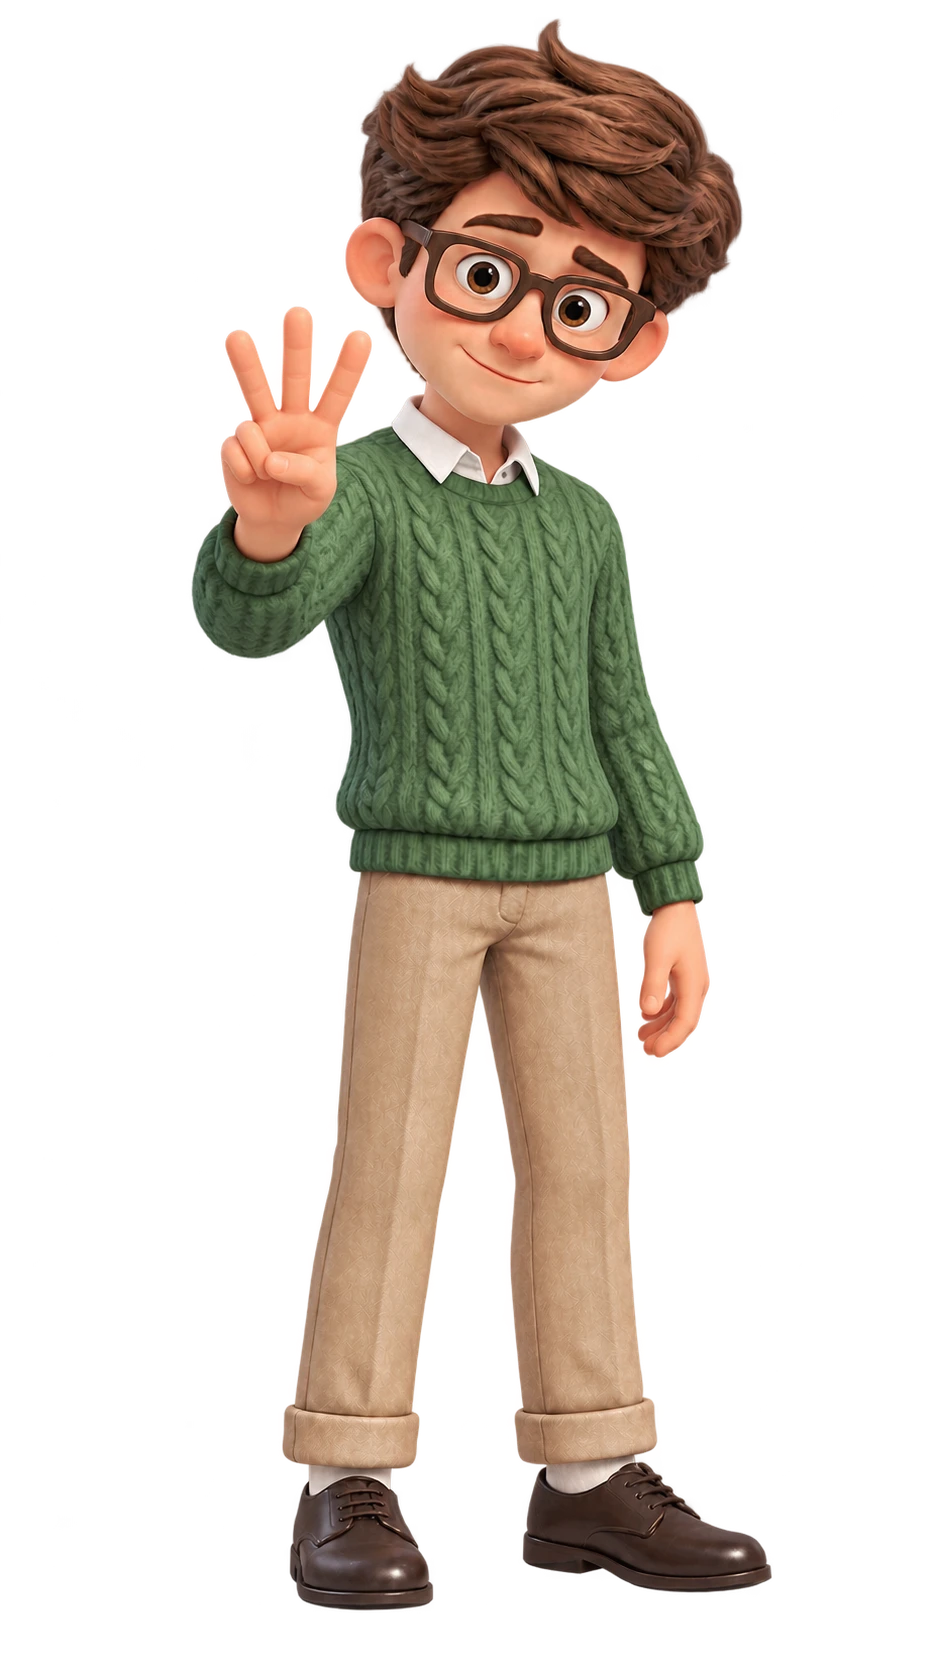
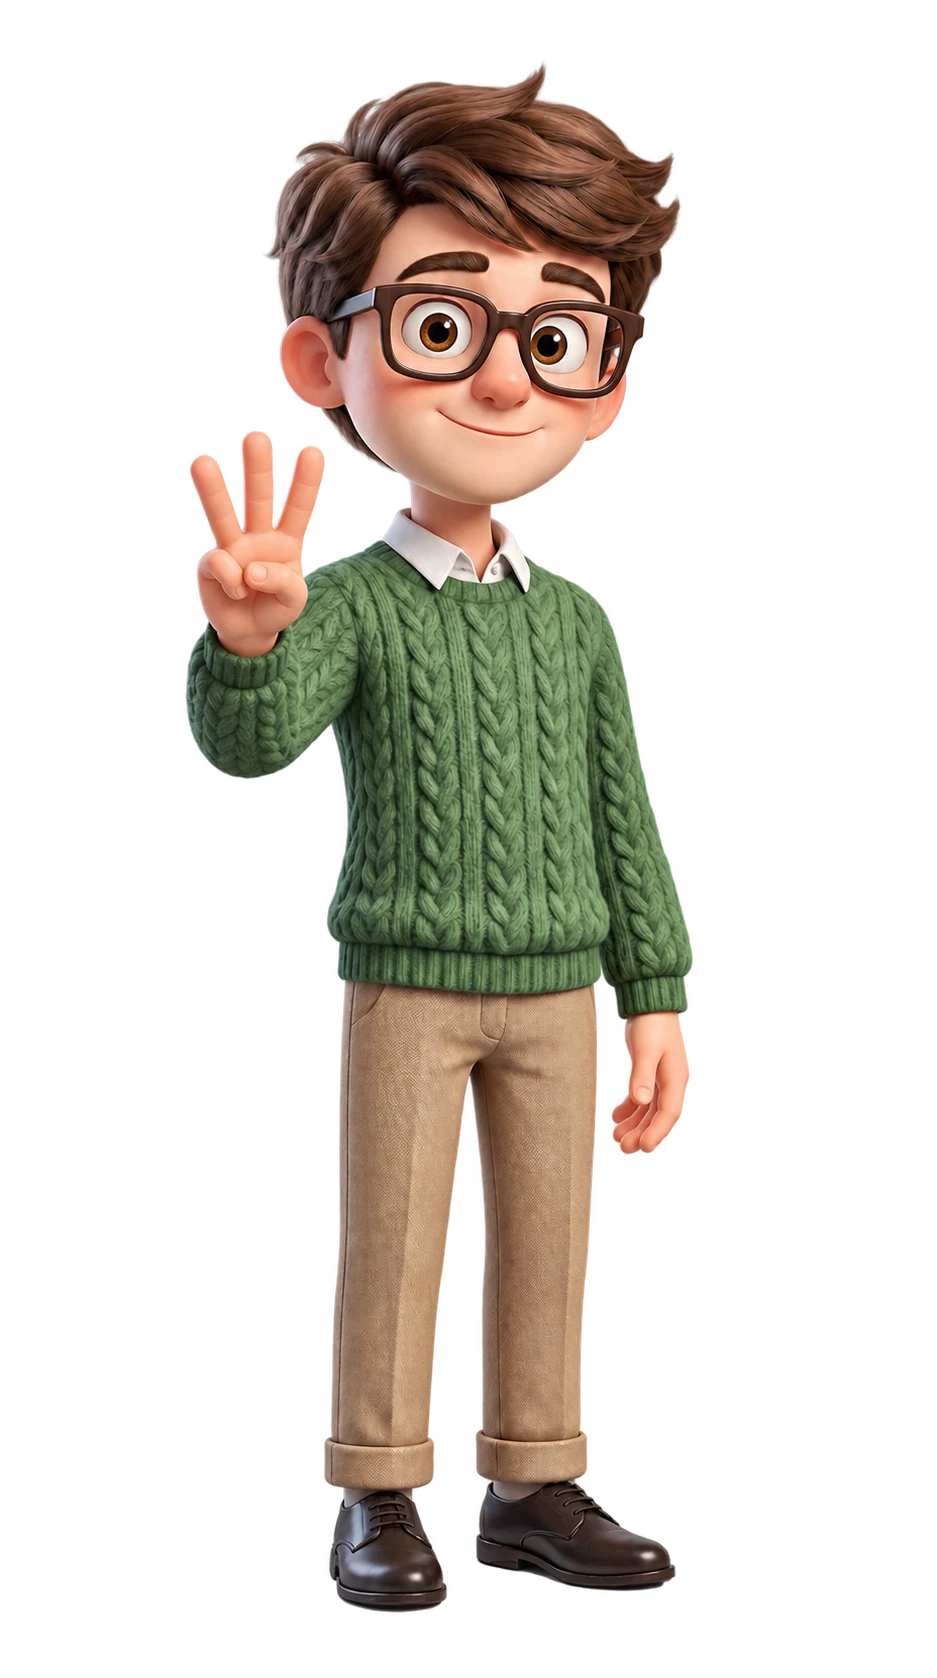
Replace angry, counting, phone and sad poses; fix wrapping card text
Claude-Session: https://claude.ai/code/session_018R5r2hXanekDskBvs7Xw15

Changed region(s): [[0.1857, 0.0, 0.8356, 0.9607]]

diff --git a/videos/carte-especes-hf/compositions/character.html b/videos/carte-especes-hf/compositions/character.html
@@ -31,10 +31,10 @@
             <img id="character-07_surpris" class="pose" src="assets/poses/07_surpris.png" alt="" style="left:-113.4px;top:378.6px;width:637.2px;height:1141.0px" />
             <img id="character-08_rassure" class="pose" src="assets/poses/08_rassure.png" alt="" style="left:-109.3px;top:363.0px;width:637.2px;height:1141.0px" />
             <img id="character-10_rit_content" class="pose" src="assets/poses/10_rit_content.png" alt="" style="left:-102.8px;top:367.7px;width:637.8px;height:1140.4px" />
-            <img id="character-11_triste_decu" class="pose" src="assets/poses/11_triste_decu.png" alt="" style="left:-124.2px;top:373.2px;width:637.2px;height:1141.0px" />
-            <img id="character-12_tient_telephone" class="pose" src="assets/poses/12_tient_telephone.png" alt="" style="left:-127.3px;top:368.4px;width:637.2px;height:1141.0px" />
-            <img id="character-13_compte_doigts" class="pose" src="assets/poses/13_compte_doigts.png" alt="" style="left:-133.1px;top:374.5px;width:637.2px;height:1141.0px" />
-            <img id="character-14_enerve" class="pose" src="assets/poses/14_enerve.png" alt="" style="left:-121.5px;top:362.3px;width:637.2px;height:1141.0px" />
+            <img id="character-11_triste_decu" class="pose" src="assets/poses/11_triste_decu.png" alt="" style="left:-107.9px;top:368.4px;width:637.2px;height:1141.0px" />
+            <img id="character-12_tient_telephone" class="pose" src="assets/poses/12_tient_telephone.png" alt="" style="left:-117.4px;top:374.5px;width:637.2px;height:1141.0px" />
+            <img id="character-13_compte_doigts" class="pose" src="assets/poses/13_compte_doigts.png" alt="" style="left:-113.7px;top:373.2px;width:637.2px;height:1141.0px" />
+            <img id="character-14_enerve" class="pose" src="assets/poses/14_enerve.png" alt="" style="left:-112.3px;top:371.1px;width:637.2px;height:1141.0px" />
           </div>
         </div>
       </div>

diff --git a/videos/carte-especes-hf/compositions/c1.html b/videos/carte-especes-hf/compositions/c1.html
@@ -43,8 +43,8 @@
         #c1 .chips.col { flex-direction: column; }
         #c1 .pill {
           align-self: flex-start; font-family: "JetBrains Mono", monospace; font-weight: 700;
-          font-size: 26px; letter-spacing: 0.06em; padding: 14px 22px; border-radius: 30px;
-          background: #f4f1ea; color: #16140f;
+          font-size: 24px; letter-spacing: 0.04em; padding: 14px 20px; border-radius: 30px;
+          background: #f4f1ea; color: #16140f; white-space: nowrap;
         }
         #c1 .pill.red { background: #d9453b; color: #ffffff; }
         #c1 .pill.green { background: #3f6b3c; color: #ffffff; }
@@ -99,7 +99,7 @@
           display: flex; justify-content: space-between; font-family: "JetBrains Mono", monospace;
           font-weight: 700; font-size: 28px; padding-bottom: 14px; border-bottom: 2px dashed #ece6d8;
         }
-        #c1 .total { display: flex; justify-content: space-between; font-weight: 900; font-size: 50px; color: #c0352c; }
+        #c1 .total { display: flex; justify-content: space-between; gap: 16px; font-weight: 900; font-size: 42px; color: #c0352c; white-space: nowrap; }
         #c1 .sub { font-weight: 700; font-size: 38px; line-height: 1.2; }
         #c1 .cta {
           display: flex; align-items: center; gap: 14px; padding: 16px 22px; border-radius: 40px;

diff --git a/videos/carte-especes-hf/compositions/c2.html b/videos/carte-especes-hf/compositions/c2.html
@@ -43,8 +43,8 @@
         #c2 .chips.col { flex-direction: column; }
         #c2 .pill {
           align-self: flex-start; font-family: "JetBrains Mono", monospace; font-weight: 700;
-          font-size: 26px; letter-spacing: 0.06em; padding: 14px 22px; border-radius: 30px;
-          background: #f4f1ea; color: #16140f;
+          font-size: 24px; letter-spacing: 0.04em; padding: 14px 20px; border-radius: 30px;
+          background: #f4f1ea; color: #16140f; white-space: nowrap;
         }
         #c2 .pill.red { background: #d9453b; color: #ffffff; }
         #c2 .pill.green { background: #3f6b3c; color: #ffffff; }
@@ -99,7 +99,7 @@
           display: flex; justify-content: space-between; font-family: "JetBrains Mono", monospace;
           font-weight: 700; font-size: 28px; padding-bottom: 14px; border-bottom: 2px dashed #ece6d8;
         }
-        #c2 .total { display: flex; justify-content: space-between; font-weight: 900; font-size: 50px; color: #c0352c; }
+        #c2 .total { display: flex; justify-content: space-between; gap: 16px; font-weight: 900; font-size: 42px; color: #c0352c; white-space: nowrap; }
         #c2 .sub { font-weight: 700; font-size: 38px; line-height: 1.2; }
         #c2 .cta {
           display: flex; align-items: center; gap: 14px; padding: 16px 22px; border-radius: 40px;

diff --git a/videos/carte-especes-hf/compositions/c3.html b/videos/carte-especes-hf/compositions/c3.html
@@ -43,8 +43,8 @@
         #c3 .chips.col { flex-direction: column; }
         #c3 .pill {
           align-self: flex-start; font-family: "JetBrains Mono", monospace; font-weight: 700;
-          font-size: 26px; letter-spacing: 0.06em; padding: 14px 22px; border-radius: 30px;
-          background: #f4f1ea; color: #16140f;
+          font-size: 24px; letter-spacing: 0.04em; padding: 14px 20px; border-radius: 30px;
+          background: #f4f1ea; color: #16140f; white-space: nowrap;
         }
         #c3 .pill.red { background: #d9453b; color: #ffffff; }
         #c3 .pill.green { background: #3f6b3c; color: #ffffff; }
@@ -99,7 +99,7 @@
           display: flex; justify-content: space-between; font-family: "JetBrains Mono", monospace;
           font-weight: 700; font-size: 28px; padding-bottom: 14px; border-bottom: 2px dashed #ece6d8;
         }
-        #c3 .total { display: flex; justify-content: space-between; font-weight: 900; font-size: 50px; color: #c0352c; }
+        #c3 .total { display: flex; justify-content: space-between; gap: 16px; font-weight: 900; font-size: 42px; color: #c0352c; white-space: nowrap; }
         #c3 .sub { font-weight: 700; font-size: 38px; line-height: 1.2; }
         #c3 .cta {
           display: flex; align-items: center; gap: 14px; padding: 16px 22px; border-radius: 40px;

diff --git a/videos/carte-especes-hf/compositions/c4.html b/videos/carte-especes-hf/compositions/c4.html
@@ -43,8 +43,8 @@
         #c4 .chips.col { flex-direction: column; }
         #c4 .pill {
           align-self: flex-start; font-family: "JetBrains Mono", monospace; font-weight: 700;
-          font-size: 26px; letter-spacing: 0.06em; padding: 14px 22px; border-radius: 30px;
-          background: #f4f1ea; color: #16140f;
+          font-size: 24px; letter-spacing: 0.04em; padding: 14px 20px; border-radius: 30px;
+          background: #f4f1ea; color: #16140f; white-space: nowrap;
         }
         #c4 .pill.red { background: #d9453b; color: #ffffff; }
         #c4 .pill.green { background: #3f6b3c; color: #ffffff; }
@@ -99,7 +99,7 @@
           display: flex; justify-content: space-between; font-family: "JetBrains Mono", monospace;
           font-weight: 700; font-size: 28px; padding-bottom: 14px; border-bottom: 2px dashed #ece6d8;
         }
-        #c4 .total { display: flex; justify-content: space-between; font-weight: 900; font-size: 50px; color: #c0352c; }
+        #c4 .total { display: flex; justify-content: space-between; gap: 16px; font-weight: 900; font-size: 42px; color: #c0352c; white-space: nowrap; }
         #c4 .sub { font-weight: 700; font-size: 38px; line-height: 1.2; }
         #c4 .cta {
           display: flex; align-items: center; gap: 14px; padding: 16px 22px; border-radius: 40px;

diff --git a/videos/carte-especes-hf/compositions/c5.html b/videos/carte-especes-hf/compositions/c5.html
@@ -43,8 +43,8 @@
         #c5 .chips.col { flex-direction: column; }
         #c5 .pill {
           align-self: flex-start; font-family: "JetBrains Mono", monospace; font-weight: 700;
-          font-size: 26px; letter-spacing: 0.06em; padding: 14px 22px; border-radius: 30px;
-          background: #f4f1ea; color: #16140f;
+          font-size: 24px; letter-spacing: 0.04em; padding: 14px 20px; border-radius: 30px;
+          background: #f4f1ea; color: #16140f; white-space: nowrap;
         }
         #c5 .pill.red { background: #d9453b; color: #ffffff; }
         #c5 .pill.green { background: #3f6b3c; color: #ffffff; }
@@ -99,7 +99,7 @@
           display: flex; justify-content: space-between; font-family: "JetBrains Mono", monospace;
           font-weight: 700; font-size: 28px; padding-bottom: 14px; border-bottom: 2px dashed #ece6d8;
         }
-        #c5 .total { display: flex; justify-content: space-between; font-weight: 900; font-size: 50px; color: #c0352c; }
+        #c5 .total { display: flex; justify-content: space-between; gap: 16px; font-weight: 900; font-size: 42px; color: #c0352c; white-space: nowrap; }
         #c5 .sub { font-weight: 700; font-size: 38px; line-height: 1.2; }
         #c5 .cta {
           display: flex; align-items: center; gap: 14px; padding: 16px 22px; border-radius: 40px;

diff --git a/videos/carte-especes-hf/compositions/c6.html b/videos/carte-especes-hf/compositions/c6.html
@@ -43,8 +43,8 @@
         #c6 .chips.col { flex-direction: column; }
         #c6 .pill {
           align-self: flex-start; font-family: "JetBrains Mono", monospace; font-weight: 700;
-          font-size: 26px; letter-spacing: 0.06em; padding: 14px 22px; border-radius: 30px;
-          background: #f4f1ea; color: #16140f;
+          font-size: 24px; letter-spacing: 0.04em; padding: 14px 20px; border-radius: 30px;
+          background: #f4f1ea; color: #16140f; white-space: nowrap;
         }
         #c6 .pill.red { background: #d9453b; color: #ffffff; }
         #c6 .pill.green { background: #3f6b3c; color: #ffffff; }
@@ -99,7 +99,7 @@
           display: flex; justify-content: space-between; font-family: "JetBrains Mono", monospace;
           font-weight: 700; font-size: 28px; padding-bottom: 14px; border-bottom: 2px dashed #ece6d8;
         }
-        #c6 .total { display: flex; justify-content: space-between; font-weight: 900; font-size: 50px; color: #c0352c; }
+        #c6 .total { display: flex; justify-content: space-between; gap: 16px; font-weight: 900; font-size: 42px; color: #c0352c; white-space: nowrap; }
         #c6 .sub { font-weight: 700; font-size: 38px; line-height: 1.2; }
         #c6 .cta {
           display: flex; align-items: center; gap: 14px; padding: 16px 22px; border-radius: 40px;

diff --git a/videos/carte-especes-hf/compositions/c7.html b/videos/carte-especes-hf/compositions/c7.html
@@ -43,8 +43,8 @@
         #c7 .chips.col { flex-direction: column; }
         #c7 .pill {
           align-self: flex-start; font-family: "JetBrains Mono", monospace; font-weight: 700;
-          font-size: 26px; letter-spacing: 0.06em; padding: 14px 22px; border-radius: 30px;
-          background: #f4f1ea; color: #16140f;
+          font-size: 24px; letter-spacing: 0.04em; padding: 14px 20px; border-radius: 30px;
+          background: #f4f1ea; color: #16140f; white-space: nowrap;
         }
         #c7 .pill.red { background: #d9453b; color: #ffffff; }
         #c7 .pill.green { background: #3f6b3c; color: #ffffff; }
@@ -99,7 +99,7 @@
           display: flex; justify-content: space-between; font-family: "JetBrains Mono", monospace;
           font-weight: 700; font-size: 28px; padding-bottom: 14px; border-bottom: 2px dashed #ece6d8;
         }
-        #c7 .total { display: flex; justify-content: space-between; font-weight: 900; font-size: 50px; color: #c0352c; }
+        #c7 .total { display: flex; justify-content: space-between; gap: 16px; font-weight: 900; font-size: 42px; color: #c0352c; white-space: nowrap; }
         #c7 .sub { font-weight: 700; font-size: 38px; line-height: 1.2; }
         #c7 .cta {
           display: flex; align-items: center; gap: 14px; padding: 16px 22px; border-radius: 40px;

diff --git a/videos/carte-especes-hf/compositions/c8.html b/videos/carte-especes-hf/compositions/c8.html
@@ -43,8 +43,8 @@
         #c8 .chips.col { flex-direction: column; }
         #c8 .pill {
           align-self: flex-start; font-family: "JetBrains Mono", monospace; font-weight: 700;
-          font-size: 26px; letter-spacing: 0.06em; padding: 14px 22px; border-radius: 30px;
-          background: #f4f1ea; color: #16140f;
+          font-size: 24px; letter-spacing: 0.04em; padding: 14px 20px; border-radius: 30px;
+          background: #f4f1ea; color: #16140f; white-space: nowrap;
         }
         #c8 .pill.red { background: #d9453b; color: #ffffff; }
         #c8 .pill.green { background: #3f6b3c; color: #ffffff; }
@@ -99,7 +99,7 @@
           display: flex; justify-content: space-between; font-family: "JetBrains Mono", monospace;
           font-weight: 700; font-size: 28px; padding-bottom: 14px; border-bottom: 2px dashed #ece6d8;
         }
-        #c8 .total { display: flex; justify-content: space-between; font-weight: 900; font-size: 50px; color: #c0352c; }
+        #c8 .total { display: flex; justify-content: space-between; gap: 16px; font-weight: 900; font-size: 42px; color: #c0352c; white-space: nowrap; }
         #c8 .sub { font-weight: 700; font-size: 38px; line-height: 1.2; }
         #c8 .cta {
           display: flex; align-items: center; gap: 14px; padding: 16px 22px; border-radius: 40px;

diff --git a/videos/carte-especes-hf/compositions/c9.html b/videos/carte-especes-hf/compositions/c9.html
@@ -43,8 +43,8 @@
         #c9 .chips.col { flex-direction: column; }
         #c9 .pill {
           align-self: flex-start; font-family: "JetBrains Mono", monospace; font-weight: 700;
-          font-size: 26px; letter-spacing: 0.06em; padding: 14px 22px; border-radius: 30px;
-          background: #f4f1ea; color: #16140f;
+          font-size: 24px; letter-spacing: 0.04em; padding: 14px 20px; border-radius: 30px;
+          background: #f4f1ea; color: #16140f; white-space: nowrap;
         }
         #c9 .pill.red { background: #d9453b; color: #ffffff; }
         #c9 .pill.green { background: #3f6b3c; color: #ffffff; }
@@ -99,7 +99,7 @@
           display: flex; justify-content: space-between; font-family: "JetBrains Mono", monospace;
           font-weight: 700; font-size: 28px; padding-bottom: 14px; border-bottom: 2px dashed #ece6d8;
         }
-        #c9 .total { display: flex; justify-content: space-between; font-weight: 900; font-size: 50px; color: #c0352c; }
+        #c9 .total { display: flex; justify-content: space-between; gap: 16px; font-weight: 900; font-size: 42px; color: #c0352c; white-space: nowrap; }
         #c9 .sub { font-weight: 700; font-size: 38px; line-height: 1.2; }
         #c9 .cta {
           display: flex; align-items: center; gap: 14px; padding: 16px 22px; border-radius: 40px;

diff --git a/videos/carte-especes-hf/build.py b/videos/carte-especes-hf/build.py
@@ -100,8 +100,8 @@ CARD_CSS = """        #%ID% .card {
         #%ID% .chips.col { flex-direction: column; }
         #%ID% .pill {
           align-self: flex-start; font-family: "JetBrains Mono", monospace; font-weight: 700;
-          font-size: 26px; letter-spacing: 0.06em; padding: 14px 22px; border-radius: 30px;
-          background: #f4f1ea; color: #16140f;
+          font-size: 24px; letter-spacing: 0.04em; padding: 14px 20px; border-radius: 30px;
+          background: #f4f1ea; color: #16140f; white-space: nowrap;
         }
         #%ID% .pill.red { background: #d9453b; color: #ffffff; }
         #%ID% .pill.green { background: #3f6b3c; color: #ffffff; }
@@ -156,7 +156,7 @@ CARD_CSS = """        #%ID% .card {
           display: flex; justify-content: space-between; font-family: "JetBrains Mono", monospace;
           font-weight: 700; font-size: 28px; padding-bottom: 14px; border-bottom: 2px dashed #ece6d8;
         }
-        #%ID% .total { display: flex; justify-content: space-between; font-weight: 900; font-size: 50px; color: #c0352c; }
+        #%ID% .total { display: flex; justify-content: space-between; gap: 16px; font-weight: 900; font-size: 42px; color: #c0352c; white-space: nowrap; }
         #%ID% .sub { font-weight: 700; font-size: 38px; line-height: 1.2; }
         #%ID% .cta {
           display: flex; align-items: center; gap: 14px; padding: 16px 22px; border-radius: 40px;
